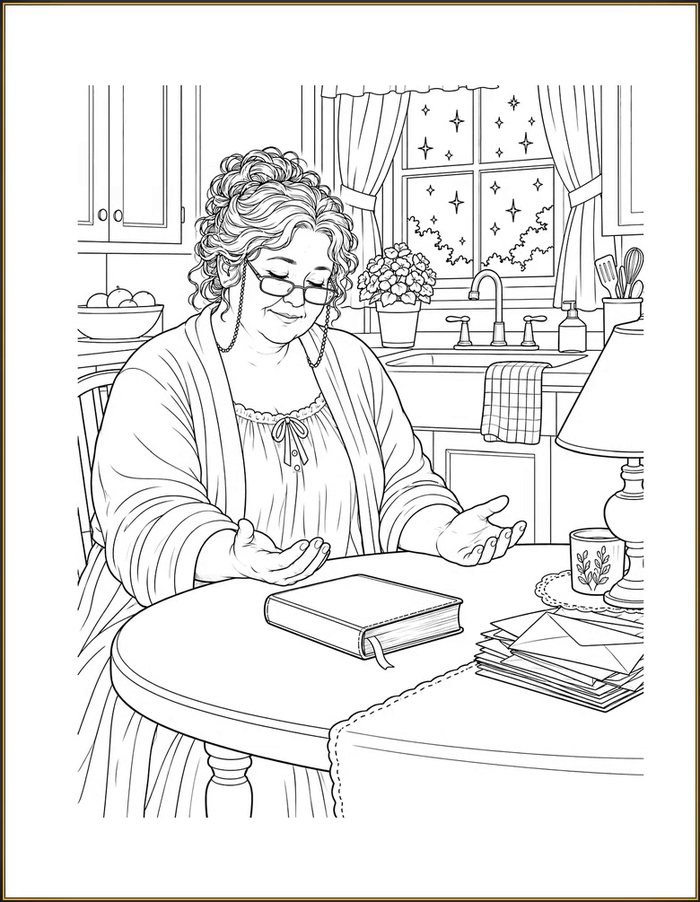
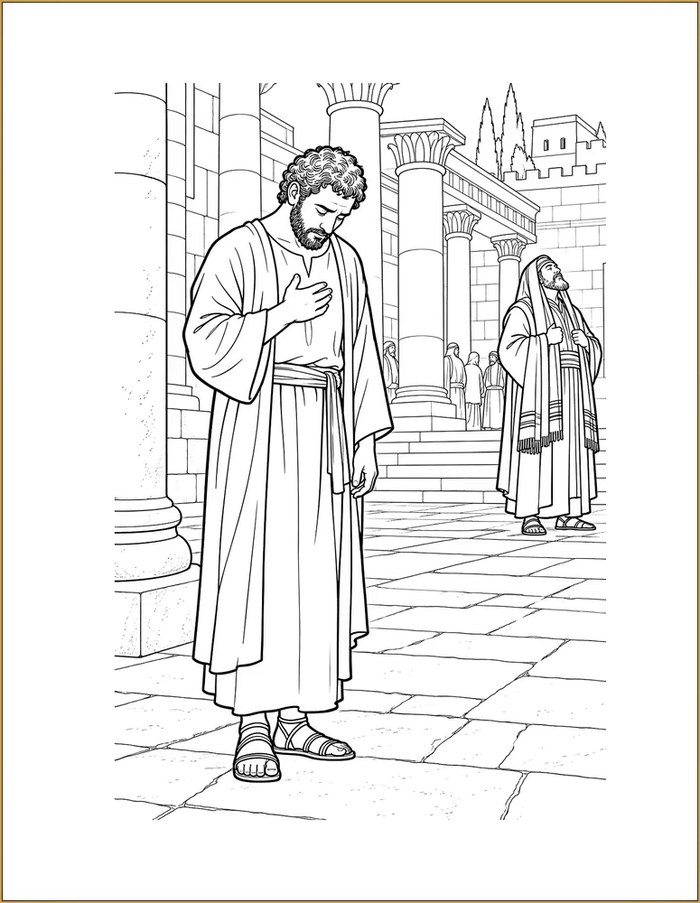
Adult card: show the Tax Collector illustration beside its own journal page
The first picture was the woman at the kitchen table, but the second was
the journal page for the Tax Collector, so the pair did not match. Both the
English and Spanish Adult cards now show the Tax Collector coloring page
facing its own page, with updated descriptions.

Claude-Session: https://claude.ai/code/session_01KtmkHoEustaste9AiB5Gjq

Changed region(s): [[0.09, 0.0931, 0.93, 0.9313], [0.0, 0.0, 1.0, 1.0]]

diff --git a/products.js b/products.js
@@ -249,7 +249,7 @@ const PRODUCTS = [
   {
     id: "beatitudes-adult",
     images: [
-      { src: "images/shop/beatitudes-adult-1.jpg", alt: "Coloring page: Empty Hands at the Kitchen Table, a modern scene of a woman at her kitchen table with a Bible." },
+      { src: "images/shop/beatitudes-adult-1.jpg", alt: "Coloring page: The Tax Collector at the Temple, a man with his head bowed and a hand on his chest in the temple courtyard while a Pharisee prays in the background." },
       { src: "images/shop/beatitudes-adult-2.jpg", alt: "The facing page for The Tax Collector at the Temple, with the verse, an As you color question and lined space for notes and prayers." }
     ],
     category: "Coloring books and planners",
@@ -334,7 +334,7 @@ const PRODUCTS = [
   {
     id: "beatitudes-adult-es",
     images: [
-      { src: "images/shop/beatitudes-adult-es-1.jpg", alt: "Página para colorear: una escena actual de una mujer en la mesa de la cocina con su Biblia." },
+      { src: "images/shop/beatitudes-adult-es-1.jpg", alt: "Página para colorear: «El publicano en el templo», un hombre con la cabeza inclinada y la mano en el pecho en el patio del templo, mientras un fariseo ora al fondo." },
       { src: "images/shop/beatitudes-adult-es-2.jpg", alt: "Página de enfrente de «El publicano en el templo», con el versículo, una pregunta y líneas para notas y oraciones." }
     ],
     category: "Coloring books in Spanish (Libros para colorear en español)",
